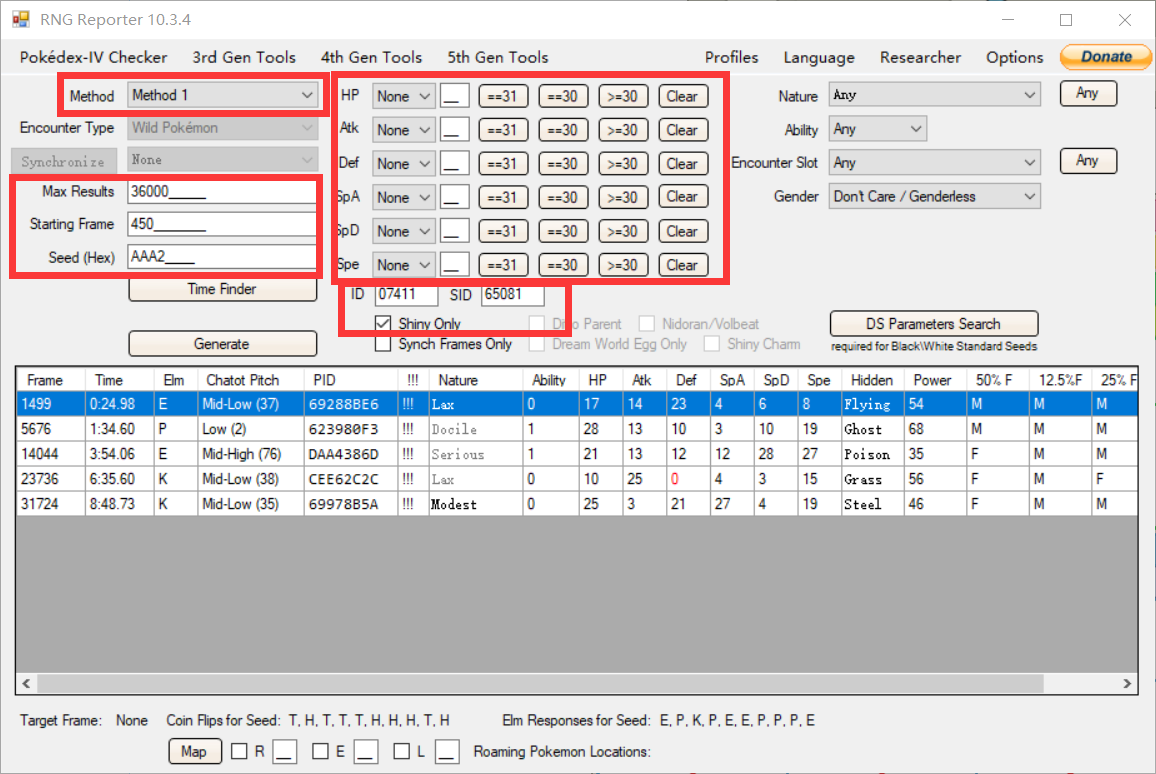
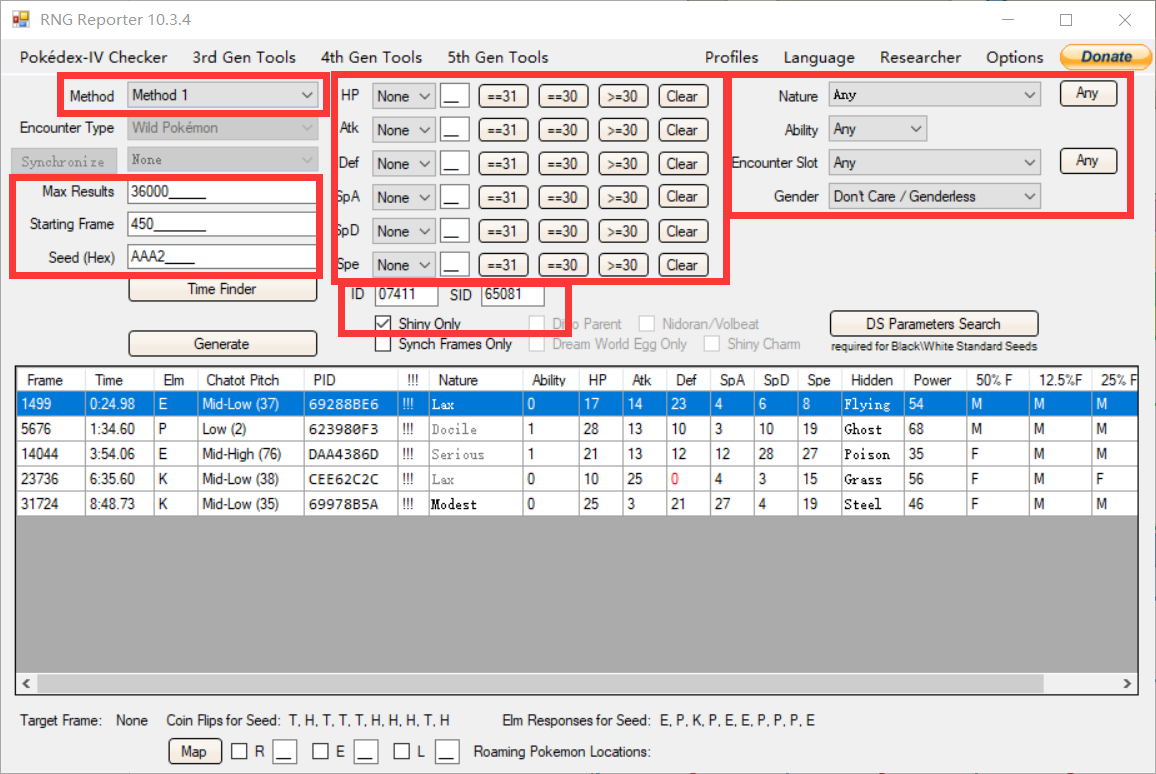
Site updated: 2021-12-25 10:56:51

Changed region(s): [[0.6228, 0.093, 0.9965, 0.3101]]

diff --git a/Pokemon/Strategies/In-Game/RNG/Pokemon-RNG-Abuse-Gen3-Part3/index.html b/Pokemon/Strategies/In-Game/RNG/Pokemon-RNG-Abuse-Gen3-Part3/index.html
@@ -143,7 +143,7 @@
 <ol>
 <li><p><em>Method</em> 选择之前确定的 <em>Method</em>.</p>
 </li>
-<li><p>根据你想要的宝可梦个体、性格、性别等填入信息，如果想要闪光请填入你的 <strong>ID</strong> 与 <strong>SID</strong>，并勾选 <em>Shiny Only</em>.</p>
+<li><p>根据你想要的宝可梦个体、性格、性别等填入信息，如果想要闪光请填入你的 <strong>ID</strong> 与 <strong>SID</strong>，并勾选 <em>Shiny Only</em>.<br>如果你使用甜甜香气，你还需要选择 <em>Encounter Slot</em> 项，点击顶部菜单项 <strong>3th Gen Tools</strong> 选择对应游戏版本的 <em>Encounter Table</em>，来查看你想要的宝可梦属于什么 <em>Encounter Slot</em>.（可能需要科学上网）<br>你也可以借助 <em>3genSearch</em> 工具来查看.</p>
 </li>
 <li><p>输入之前得到的初期 seed.</p>
 </li>
